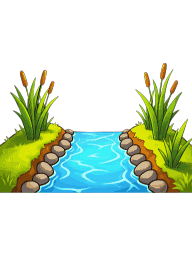
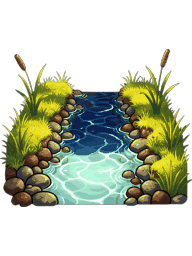
game-card-world: 강가 카드 아이콘·포트레이트 다시 생성 — 단색 애니메이션 느낌 → 음영·색 변화 넣은 손그림 느낌

diff --git a/game-card-world/docs/아이콘_목록.md b/game-card-world/docs/아이콘_목록.md
@@ -469,10 +469,10 @@ an inanimate object only, no face, no eyes, no arms, no legs, no people, no crea
 <!-- icon:card_river -->
 ### card_river — 강가
 - 파일: `images/icon/card_river.png`
-- 생성: 2026-09-16 · seed `190510636349109` · 옵션 기본
+- 생성: 2026-09-16 · seed `132719788643761` · 옵션 기본
 - 메모: 처음엔 "riverbank landmark"로 뽑았더니 가운데 사람 캐릭터가 섞여 나옴 → "empty scenery, no figure, no statue, nothing standing in the middle"로 다시 뽑음
 ```
-an inanimate object only, no face, no eyes, no arms, no legs, no people, no creatures: a small patch of empty riverbank scenery, a curving stream of clear blue water flowing between two grassy banks, smooth grey pebbles along the water edge, a few tall green reeds, no figure, no person, no statue, no character, nothing standing in the middle, empty nature only, top three-quarter view
+an inanimate object only, no face, no eyes, no arms, no legs, no people, no creatures: a small patch of riverbank, a curving stream of clear water flowing between two grassy banks, the water has depth — darker blue in the deep middle, pale turquoise in the shallows, white glints where light hits the ripples, wet grey and brown pebbles of many different tones along the edge, tufts of green grass with light and shadow, a few tall reeds, painterly hand-painted shading with deep shadows and bright highlights, rich color variation within every material, not flat single-tone colors, strong shading with deep defined shadows, high contrast between light and shadow, dramatic directional key light from the upper left, no figure, no person, no statue, nothing standing in the middle, empty nature only, top three-quarter view
 ```
 <!-- /icon -->
 
@@ -578,8 +578,8 @@ an inanimate object only, no face, no eyes, no arms, no legs, no people, no crea
 <!-- icon:portrait_river -->
 ### portrait_river — 강가
 - 파일: `images/portrait/portrait_river.png`
-- 생성: 2026-09-16 · seed `65054009653926` · 옵션 `--kind place`
+- 생성: 2026-09-16 · seed `126489151180732` · 옵션 `--kind place`
 ```
-an inanimate object only, no face, no eyes, no arms, no legs, no people, no creatures: a stream of clear blue water flowing between two grassy banks, smooth grey pebbles along the water edge, tall green reeds on the banks, no figure, no person, no statue, nothing standing in the middle, empty nature only
+an inanimate object only, no face, no eyes, no arms, no legs, no people, no creatures: a stream of clear water flowing between two grassy banks, the water has depth — darker blue in the deep middle, pale turquoise in the shallows, white glints where light hits the ripples, wet grey and brown pebbles of many different tones along the edge, tufts of green grass with light and shadow, a few tall reeds, painterly hand-painted shading with deep shadows and bright highlights, rich color variation within every material, not flat single-tone colors, strong shading with deep defined shadows, high contrast between light and shadow, dramatic directional key light from the upper left, no figure, no person, no statue, nothing standing in the middle, empty nature only
 ```
 <!-- /icon -->
